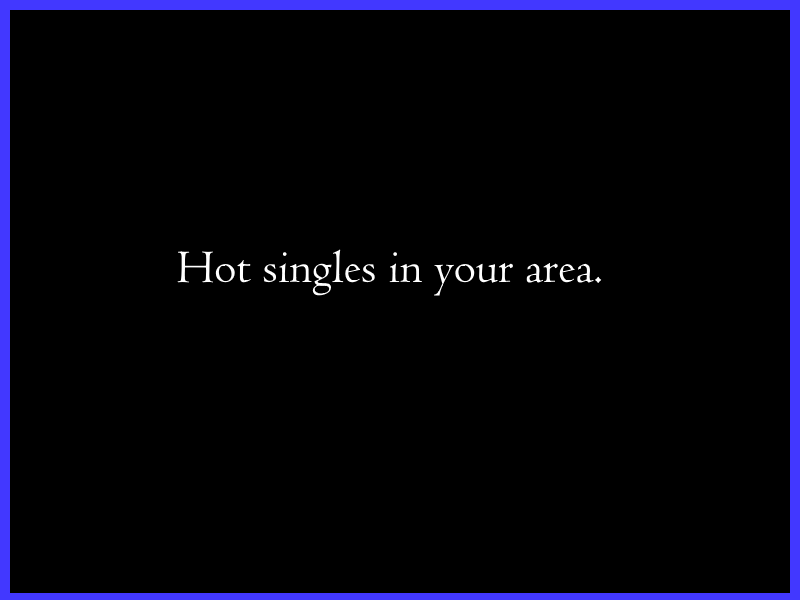
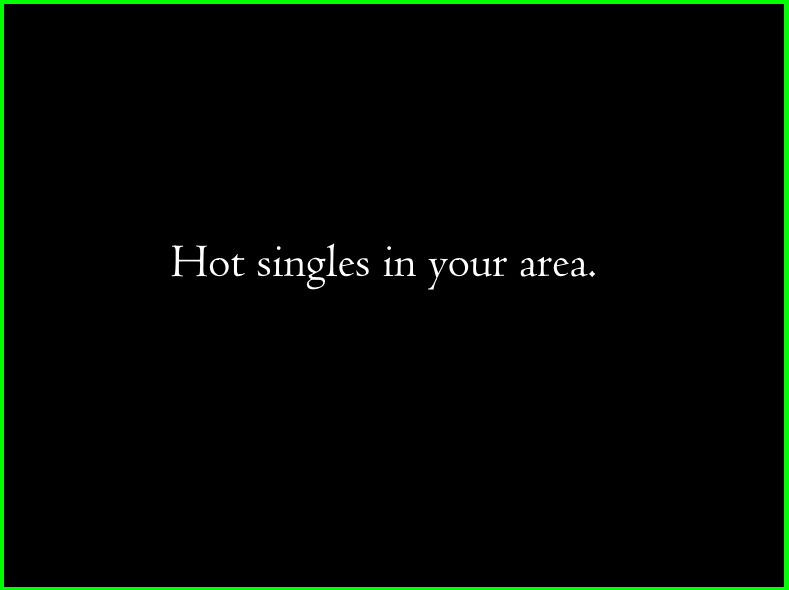
project done, added better css, bug fixes, cool font

Changed region(s): [[0.0, 0.0, 1.0, 1.0], [0.2129, 0.3966, 0.7605, 0.4881]]

diff --git a/hosted/style.css b/hosted/style.css
@@ -4,21 +4,22 @@ html, body {
     margin: 0;
     padding: 0;
     overflow-x: hidden;
-	background-color:#696969;
+	background-color:black;
+	font-family: 'Exo 2', sans-serif;
 }
 
 #logo {
     height: 40px;
-    width: 40;
     padding-top: 5px;
     float:left;
-    border-radius: 8px;
+	border: 1px solid #00FF00;
+	width:50px;
 }
 
 nav {
     width: 100%;
     height: 50px;
-    background-color: #003366;
+	background-color:black;
 }
 
 nav:nth-child(1) {
@@ -30,6 +31,7 @@ nav:nth-child(1) {
     padding-top: 12px;
     padding-left: 20px;
     color: white;
+	background-color:black;
     font-size: 1.3em;
     float: left;
 }
@@ -39,22 +41,21 @@ nav:nth-child(1) {
     text-decoration: none;
     padding: 5px;
     border-radius: 4px;
-    background-color: #003366;
+	background-color:black;
     transition: background-color 0.4s ease;
 }
 
 .navlink a:hover {
     transition: background-color 0.8s ease;
-    background-color: #696969;
+    background-color: #006900;
 }
 
 .moneyForm {
-    border: 2px solid #338acc;
     height: 35px;
     width: 700px;
     margin-top:0px;
     padding-top:10px;
-    background-color: #55acee;
+    background-color: white;
     border-bottom-right-radius: 4px;
     border-top-right-radius: 4px;
 }
@@ -73,10 +74,12 @@ nav:nth-child(1) {
 }
 #content{
 	display:inline;
+	max-width:50%;
+	margin-top:0;
 }
 
 #ad1, #ad2 {
-	max-width:20%;
+	max-width:25%;
 	padding-top:30px;
 }
 #ad1 {
@@ -90,7 +93,7 @@ nav:nth-child(1) {
     height: 300px;
     width: 380px;
     margin: 0 auto;
-    padding-top: 350px;
+    padding-top: 100px;
     font-size: 1.2em;
 }
 
@@ -114,30 +117,29 @@ nav:nth-child(1) {
     margin-top: 14px;
     font-size: 1.2em;
     width: 100px;
-    background-color: #003366;
+    background-color: black;
     border-radius: 2px;
-    border-color: #003366;
+    border-color: #00ff00;
     padding: 3px 0px;
     color: white;
     text-decoration: none;
 }
 
-.formSubmit:link, .formSubmit:visited, .formSubmit:hover, .formSubmit:active {
-    color: white;
+.formSubmit:hover{
+	transition: background-color 0.4s ease;
+	background-color:#228B22
 }
-
-.formSubmit:hover {
-    transition: background-color 0.4s ease;
-    background-color: #003366;
-}
-
 #user, #pass, #pass2 {
     text-align: center;
     font-size: 1.1em;
     width: 180px;
     border-radius: 6px;
+	margin-bottom:5px;
 }
-
+#title {
+	text-align:center;
+	font-size: 50px;
+}
 #user:focus, #pass:focus, #pass2:focus {
     outline: none;
     box-shadow: 0px 0px 1px 1px #55acee;
@@ -184,16 +186,21 @@ nav:nth-child(1) {
     -webkit-transform: rotate(330deg); 
     transform: rotate(330deg);
 }
+#moneyLabel {
+	color:white;
+	padding-left:10px;
+	font-size:15px;
+}
 
 #moneys {
     width: 40%;
     min-width: 400px;
-    border: 2px solid #003390;
+    border: 2px solid #00FF00;
     border-radius: 4px;
     margin: 0 auto;
-    margin-top: 100px;
-	color:white;
-	background-color:#696969;
+    margin-top: 40px;
+	color:#cccccc;
+	background-color:black;
 	padding-left:20px;
 }
 
@@ -202,20 +209,15 @@ nav:nth-child(1) {
     margin: 0 auto;
     margin-top: 2px;
     margin-bottom: 2px;
-    border: 2px solid #003390;
     border-radius: 4px;
-    background-color: #003390;
+    background-color: black;
     padding: 10px;
     min-height:60px;
     overflow: hidden;
+	padding-left:0px;
+	margin-left:0px;
 }
 
-.money:hover {
-    transition: border-color 0.2s ease-out;
-    border-color: rgba(255,255,255, 0.8);
-    transition: background-color 2.6s ease-out;
-    background-color: #66bfff;
-}
 
 img.domoFace {
     margin-left: 25px;
@@ -227,31 +229,6 @@ img.domoFace {
     float:left;
 }
 
-h3.emptyDomo {
-    width: 400px;
-    font-size: 1.5em;
-    margin: 0 auto;
-    text-align: center;
-    margin-top: 18px;
-}
-
-h3.domoName {
-    float:left;
-    width: 200px;
-    font-weight: bold;
-    padding-left: 65px;
-    font-size: 1.5em;
-}
-
-h3.domoAge {
-    float:right;
-    text-align: left;
-    width: 100px;
-    font-weight: bold;
-    padding-right: 40px;
-    font-size: 1.5em;
-}
-
 .money:first-child {
     margin-top: 10px;
 }
@@ -261,9 +238,38 @@ h3.domoAge {
 }
 
 .bg {
-	background-color: #04AF71;
+	background-color: #228B22;
 }
 
 .upgradeWrap { 
 	padding-top:25px;
+}
+
+#inputMoney {
+	background-color: black;
+	color:white;
+	box-shadow:none;
+	border:0;
+	font-size:15px;
+}
+
+#signupForm, #loginForm {
+	color:#00ff00;
+}
+
+.makeMoneySubmit {
+	float:left;
+	margin-right:15px;
+	color:white;
+	background-color: black;
+	border-color: #00ff00;
+	display:inline-block;
+	transition: background-color 0.3s ease;
+	width:52px;
+	font-size:15px;
+}
+
+.makeMoneySubmit:hover {
+	transition: background-color 0.3s ease;
+	background-color: #005000;
 }

diff --git a/hosted/loginBundle.js b/hosted/loginBundle.js
@@ -46,6 +46,11 @@ var LoginWindow = function LoginWindow(props) {
 			className: "mainForm"
 		},
 		React.createElement(
+			"h3",
+			{ id: "title", htmlFor: "hidden" },
+			"Typing Trainer"
+		),
+		React.createElement(
 			"label",
 			{ htmlFor: "username" },
 			"Username: "
@@ -58,7 +63,7 @@ var LoginWindow = function LoginWindow(props) {
 		),
 		React.createElement("input", { id: "pass", type: "password", name: "pass", placeholder: "password" }),
 		React.createElement("input", { type: "hidden", name: "_csrf", value: props.csrf }),
-		React.createElement("input", { className: "formSubmit", type: "submit", value: "Sign Up" })
+		React.createElement("input", { className: "formSubmit", type: "submit", value: "Login" })
 	);
 };
 
@@ -72,6 +77,11 @@ var SignupWindow = function SignupWindow(props) {
 			method: "POST",
 			className: "mainForm"
 		},
+		React.createElement(
+			"h3",
+			{ id: "title" },
+			"Typing Trainer"
+		),
 		React.createElement(
 			"label",
 			{ htmlFor: "username" },

diff --git a/client/login/client.js b/client/login/client.js
@@ -42,12 +42,13 @@ const LoginWindow = (props) => {
 		method="POST"
 		className="mainForm"
 	>
+	  <h3 id="title" htmlFor="hidden">Typing Trainer</h3>
 	  <label htmlFor="username">Username: </label>
 	  <input id="user" type="text" name="username" placeholder="username"/>
 	  <label htmlFor="pass">Password:</label>
 	  <input id="pass" type="password" name="pass" placeholder="password"/>
 	  <input type="hidden" name="_csrf" value={props.csrf}/>
-	  <input className="formSubmit" type="submit" value="Sign Up"/>
+	  <input className="formSubmit" type="submit" value="Login"/>
 	</form>
 	);
 };
@@ -61,6 +62,7 @@ const SignupWindow = (props) => {
 		method="POST"
 		className="mainForm"
 	>
+	  <h3 id="title">Typing Trainer</h3>
 	  <label htmlFor="username">Username: </label>
 	  <input id="user" type="text" name="username" placeholder="username"/>
 	  <label htmlFor="pass">Password:</label>

diff --git a/client/app/maker.js b/client/app/maker.js
@@ -21,7 +21,6 @@ let checkTime;
 let wordCount = 20;
 let wordCost = (wordCount*wordCount) - 350;
 
-
 //handles money, name needs to be changed
 const handleMoney = (e) => {
 	e.preventDefault(0);
@@ -42,7 +41,7 @@ const MoneyForm = (props) => {
 		method="POST"
 		className="money"
 	  >
-	  <label htmlFor="money">Money: </label>
+	  <label id="moneyLabel" htmlFor="money">Money: $</label>
 	  <input id="inputMoney" type="text" name="money"/>
 	  <input id="multiplier" type="hidden" name="multiplier"/>
 	  <input id="multCost" type="hidden" name="multCost"/>

diff --git a/hosted/bundle.js b/hosted/bundle.js
@@ -39,8 +39,8 @@ var MoneyForm = function MoneyForm(props) {
 		},
 		React.createElement(
 			'label',
-			{ htmlFor: 'money' },
-			'Money: '
+			{ id: 'moneyLabel', htmlFor: 'money' },
+			'Money: $'
 		),
 		React.createElement('input', { id: 'inputMoney', type: 'text', name: 'money' }),
 		React.createElement('input', { id: 'multiplier', type: 'hidden', name: 'multiplier' }),
